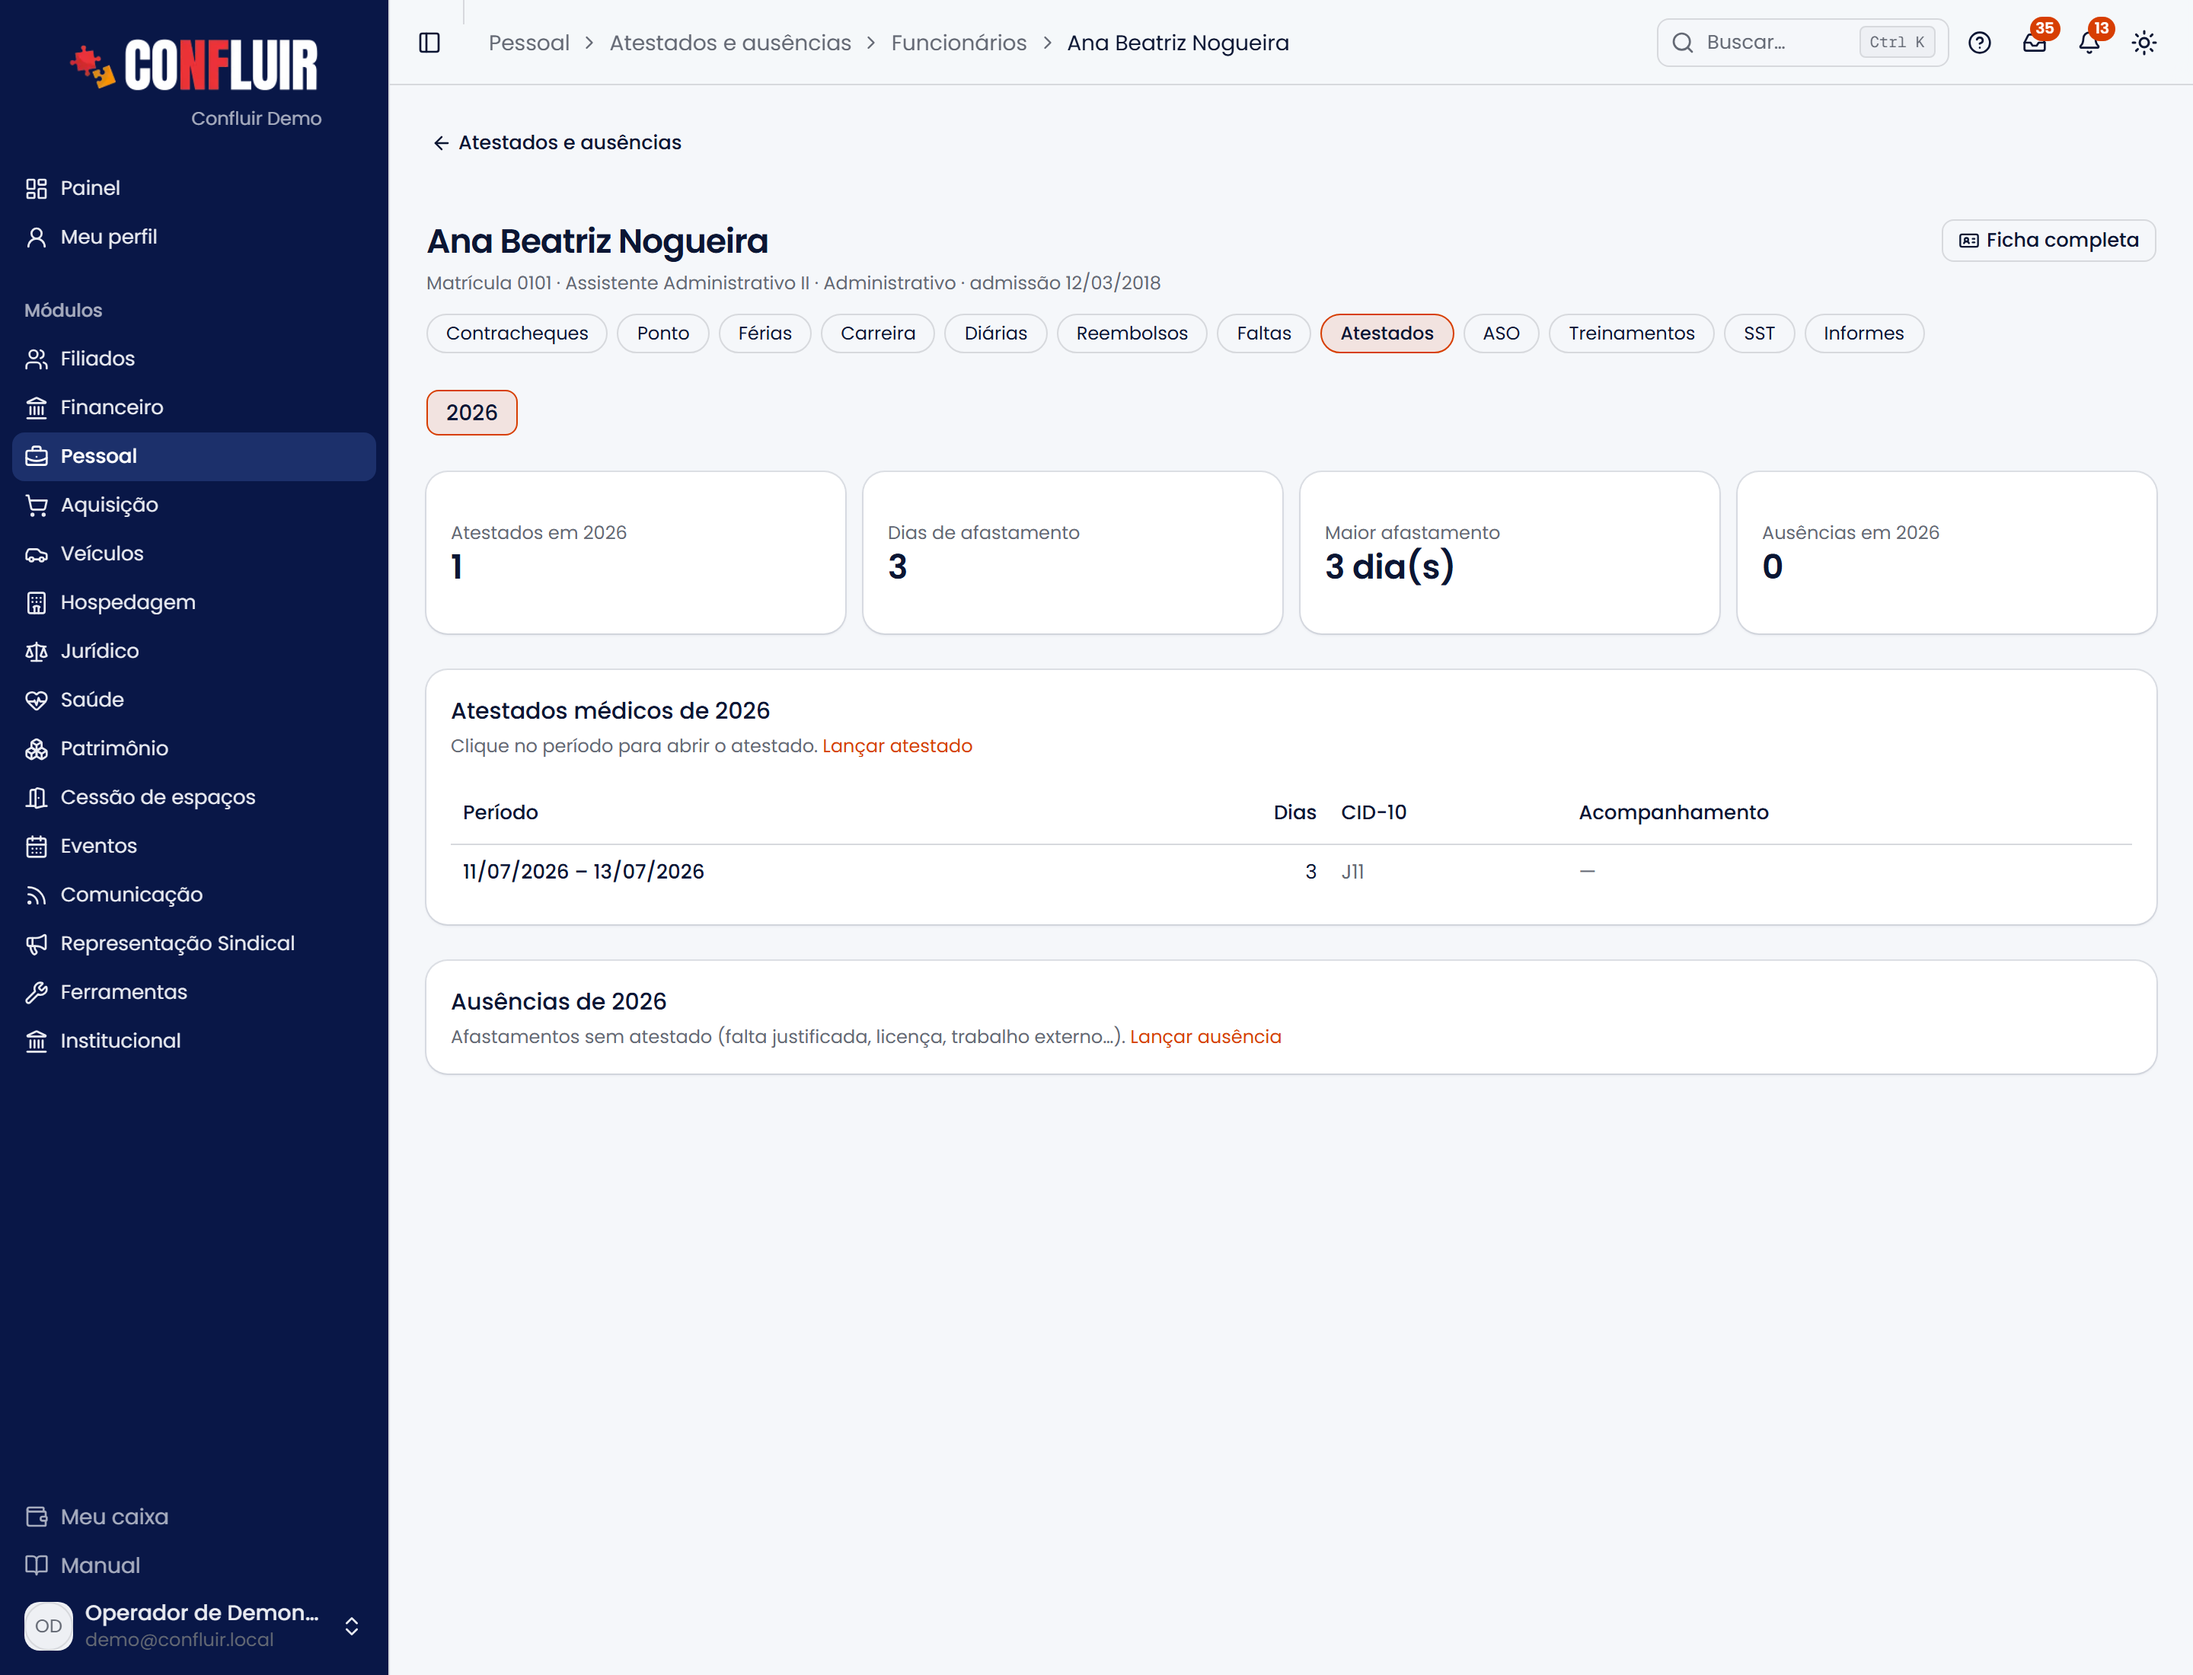
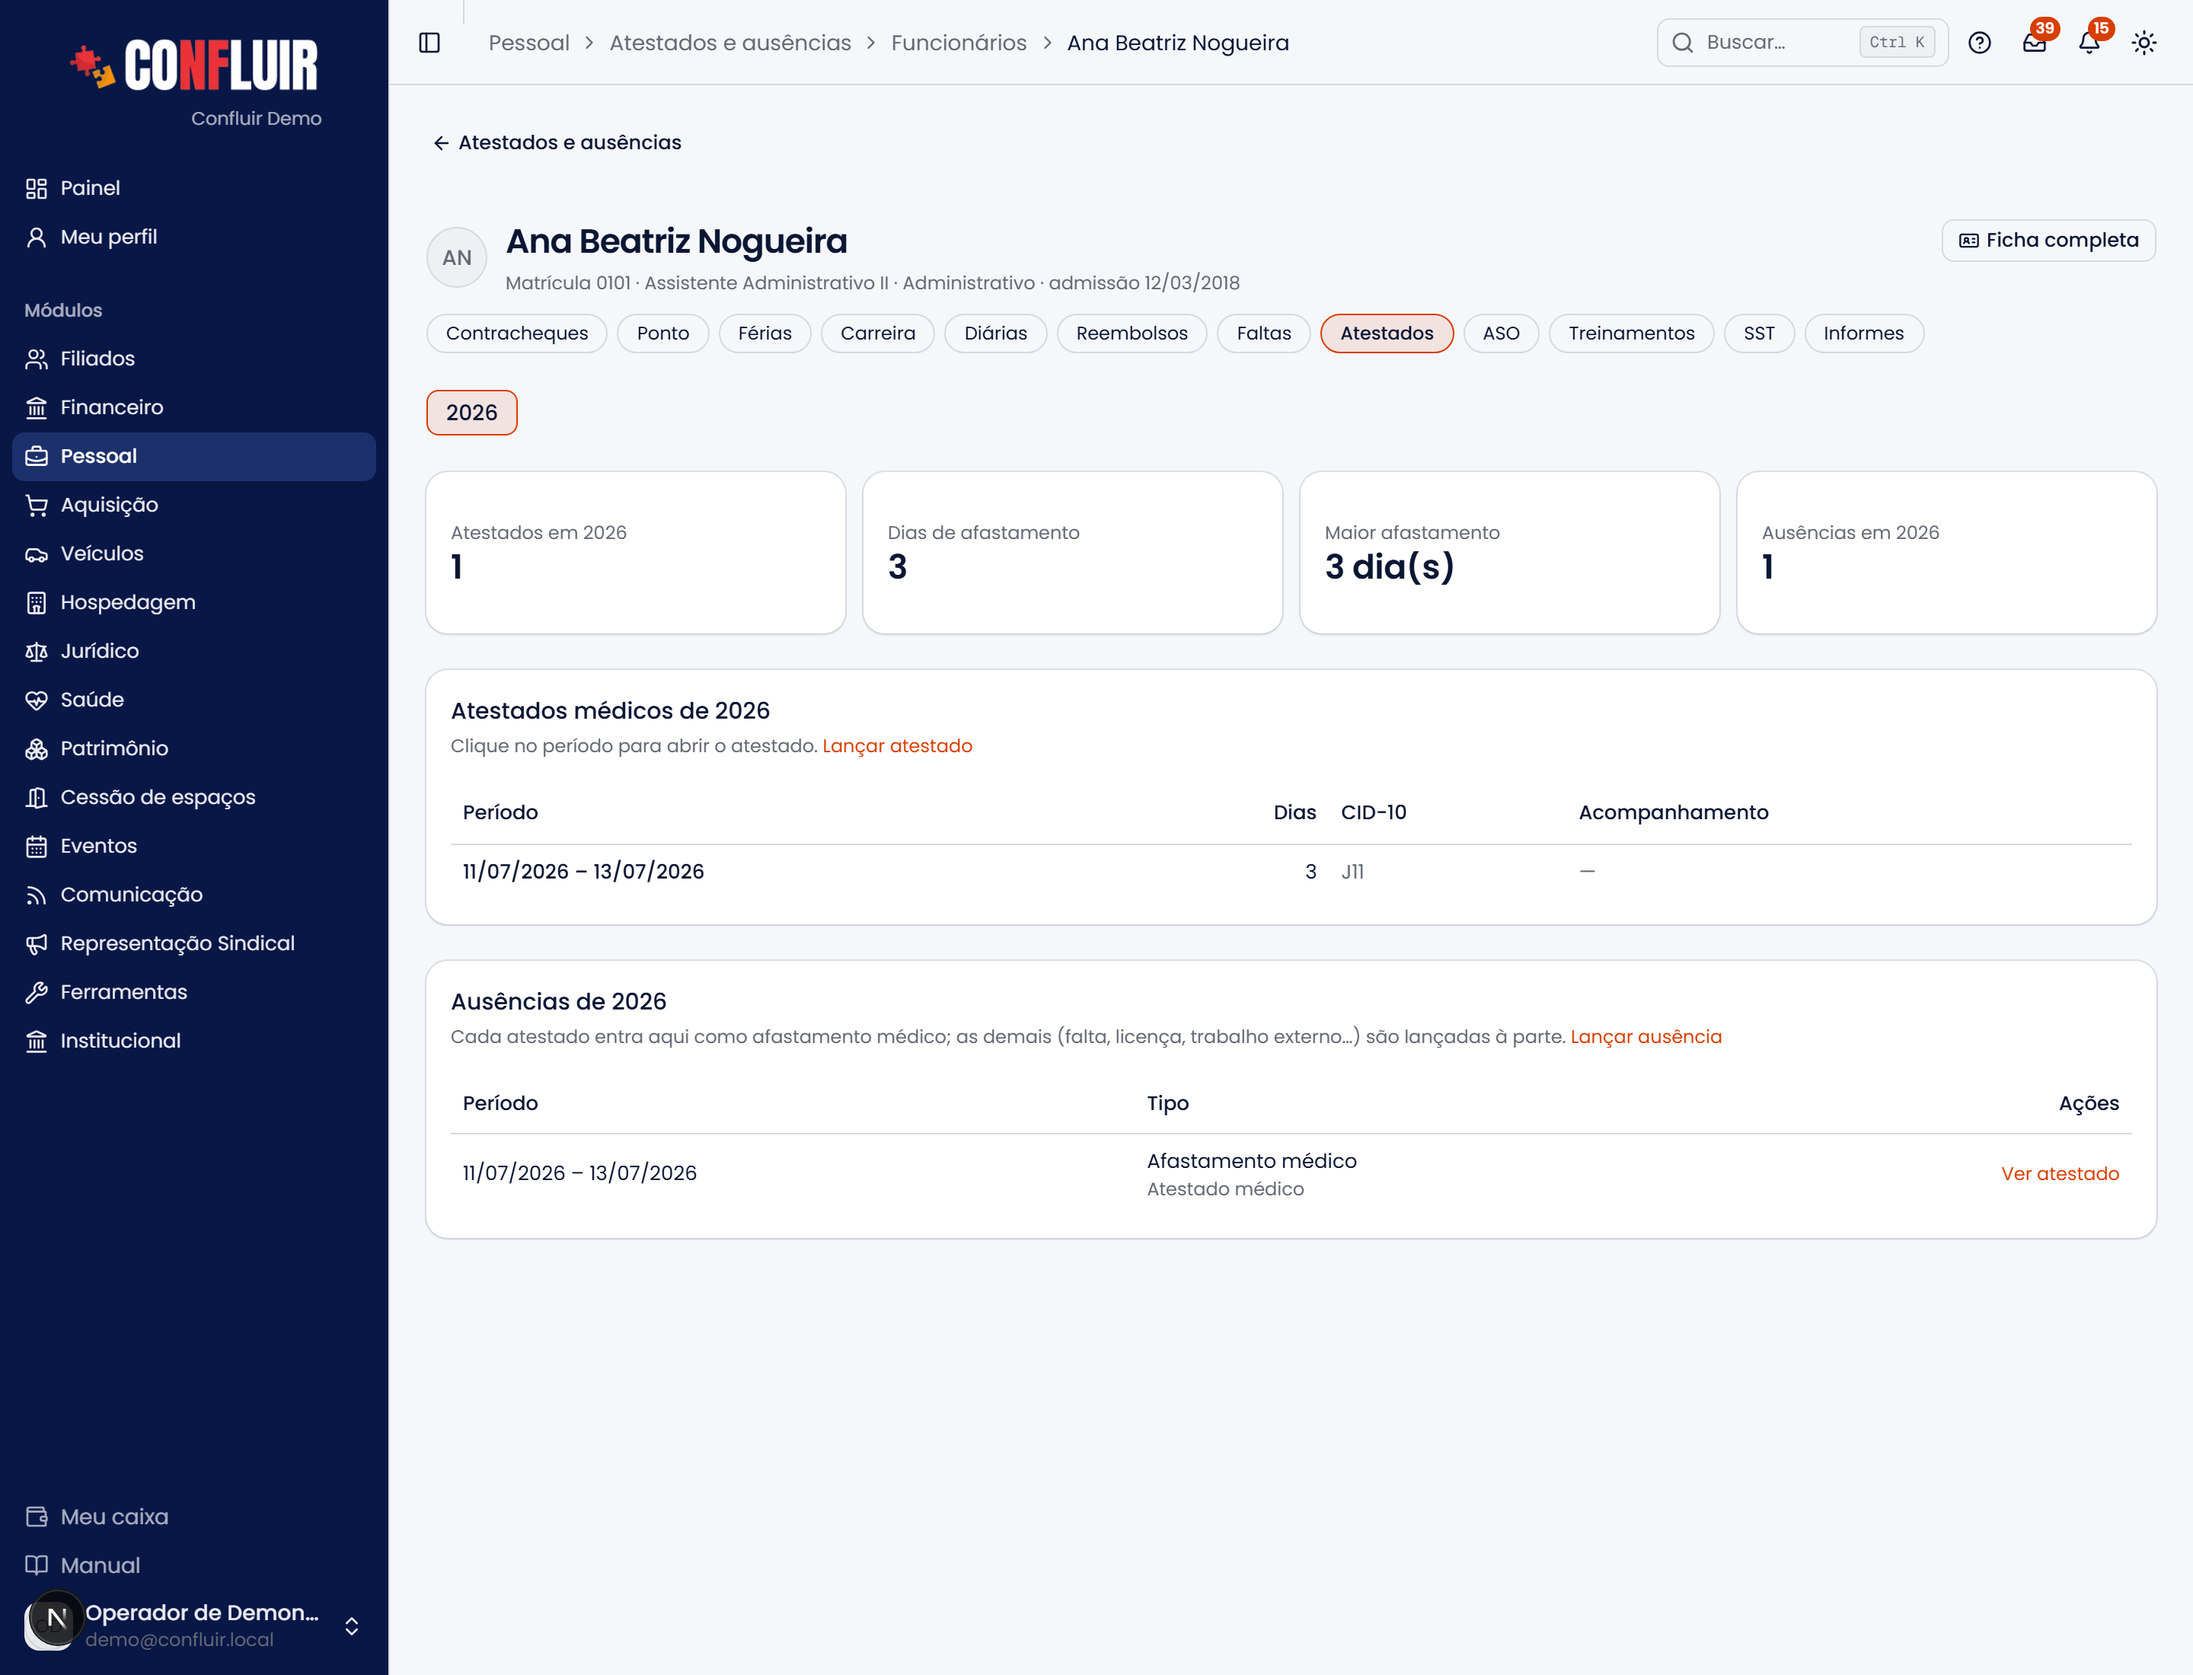
Atestados: print da aba Ausências + Ver atestado na página do funcionário
A página do funcionário oferecia Editar na ausência do atestado (recusada
desde db890e29) e dizia que ali eram afastamentos sem atestado.

diff --git a/src/app/painel/pessoal/atestados/funcionario/[usuarioId]/page.tsx b/src/app/painel/pessoal/atestados/funcionario/[usuarioId]/page.tsx
@@ -123,7 +123,8 @@ export default async function AtestadosFuncionarioPage({
         <CardHeader>
           <CardTitle className="text-base">Ausências de {ano}</CardTitle>
           <CardDescription>
-            Afastamentos sem atestado (falta justificada, licença, trabalho externo…).{" "}
+            Cada atestado entra aqui como afastamento médico; as demais (falta, licença, trabalho externo…) são
+            lançadas à parte.{" "}
             <Link href="/painel/pessoal/atestados?aba=ausencias" className="text-primary hover:underline">
               Lançar ausência
             </Link>
@@ -152,8 +153,16 @@ export default async function AtestadosFuncionarioPage({
                         {a.observacao && <span className="text-muted-foreground block truncate text-xs">{a.observacao}</span>}
                       </TableCell>
                       <TableCell className="text-right">
-                        <Link href={`/painel/pessoal/atestados?aba=ausencias&editar=${a.id}`} className="text-primary text-xs hover:underline">
-                          Editar
+                        {/* A ausência do atestado muda só pelo atestado. */}
+                        <Link
+                          href={
+                            a.atestado_id
+                              ? `/painel/pessoal/atestados/${a.atestado_id}`
+                              : `/painel/pessoal/atestados?aba=ausencias&editar=${a.id}`
+                          }
+                          className="text-primary text-xs hover:underline"
+                        >
+                          {a.atestado_id ? "Ver atestado" : "Editar"}
                         </Link>
                       </TableCell>
                     </TableRow>
